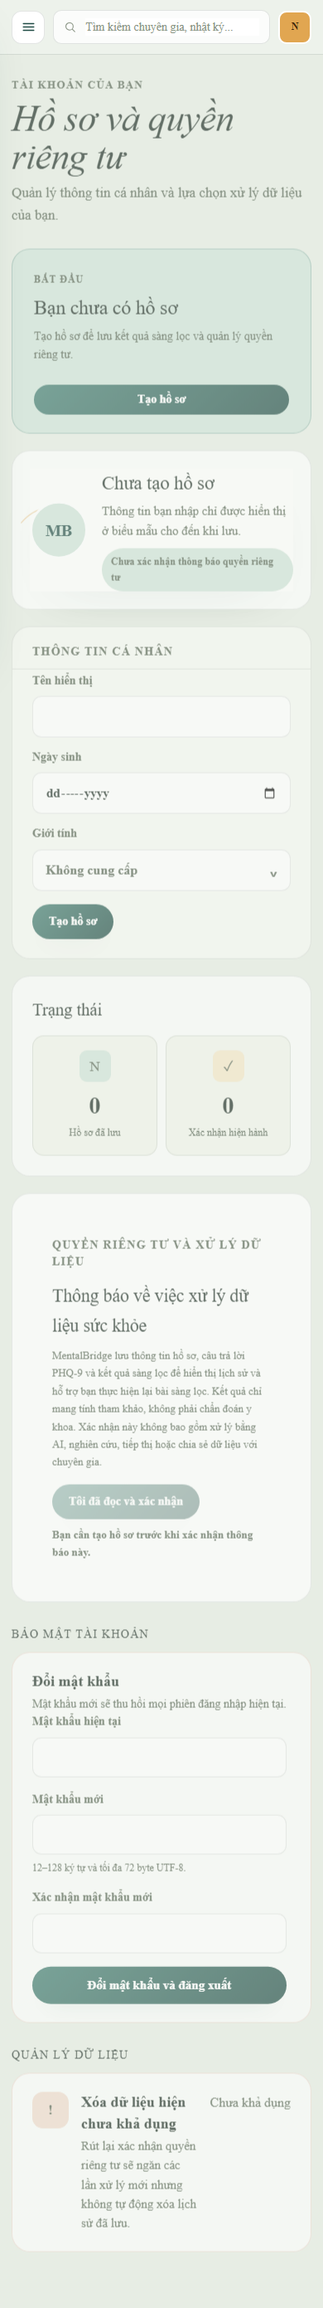
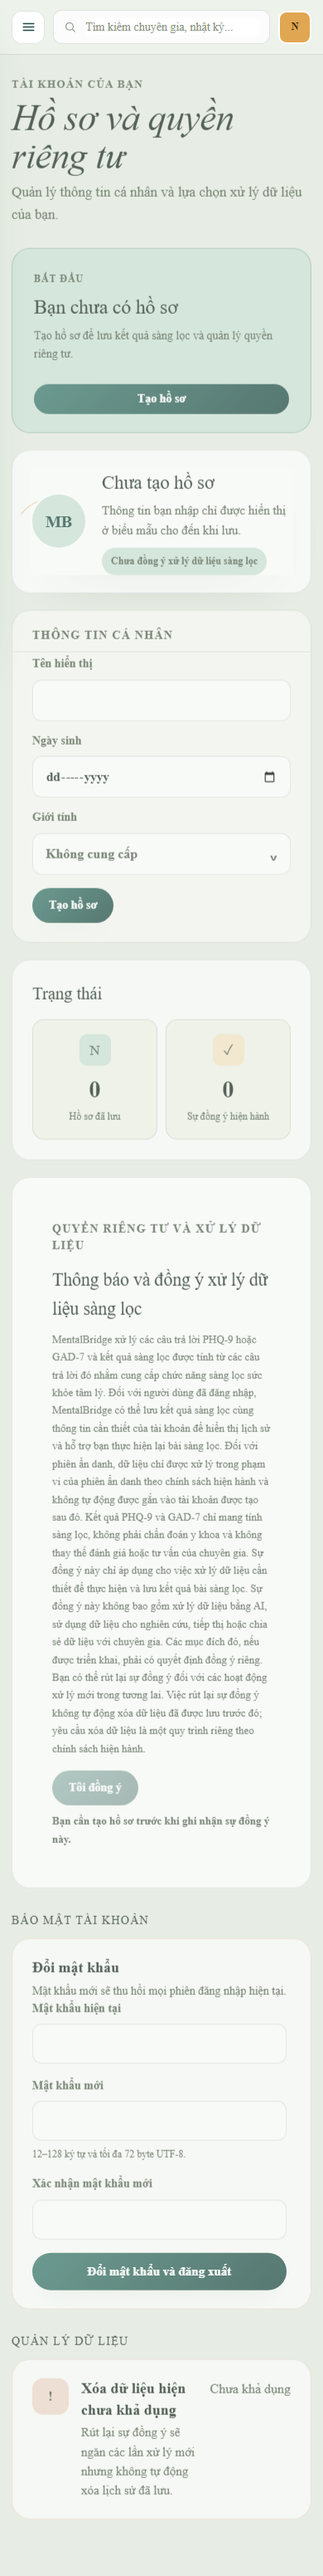
fix(assessment): clarify guided completion and form focus
Label the PHQ-9 completion action as the transition to GAD-7 while preserving the final-result action. Keep focused form controls and placeholders readable in the light theme, with unit, fixture E2E, and screenshot evidence.

diff --git a/mentalbridge/tests/e2e/care-assessment.spec.ts b/mentalbridge/tests/e2e/care-assessment.spec.ts
@@ -75,6 +75,8 @@ async function answerGuidedInstrument(
   page: Page,
   questionCount: number,
   answerName: string,
+  completionLabel: string,
+  completionEvidencePath?: string,
 ) {
   for (let item = 1; item <= questionCount; item += 1) {
     await page.getByRole('radio', { name: answerName }).check()
@@ -83,7 +85,10 @@ async function answerGuidedInstrument(
     }
   }
   await page.getByRole('checkbox', { name: /tôi đồng ý/i }).check()
-  await page.getByRole('button', { name: 'Xem kết quả' }).click()
+  if (completionEvidencePath) {
+    await page.screenshot({ path: completionEvidencePath, fullPage: true })
+  }
+  await page.getByRole('button', { name: completionLabel }).click()
 }
 
 async function careControl(
@@ -195,6 +200,22 @@ test.describe('Care-backed PHQ-9 screening', () => {
         nameInput.evaluate((element) => getComputedStyle(element).outlineWidth),
       )
       .toBe('3px')
+    await expect
+      .poll(() =>
+        nameInput.evaluate(
+          (element) => getComputedStyle(element).backgroundColor,
+        ),
+      )
+      .toBe('rgb(255, 255, 255)')
+    const searchInput = page.getByPlaceholder('Tìm kiếm chuyên gia, nhật ký...')
+    await searchInput.focus()
+    await expect
+      .poll(() =>
+        searchInput.evaluate(
+          (element) => getComputedStyle(element, '::placeholder').color,
+        ),
+      )
+      .toBe('rgb(138, 149, 133)')
     await page.screenshot({
       path: 'docs/evidence/story-1101-profile-desktop.png',
       fullPage: true,
@@ -477,7 +498,13 @@ test.describe('Care-backed PHQ-9 screening', () => {
       path: 'docs/evidence/mb-272-initial-check-questionnaire-desktop.png',
       fullPage: true,
     })
-    await answerGuidedInstrument(page, 9, 'Vài ngày')
+    await answerGuidedInstrument(
+      page,
+      9,
+      'Vài ngày',
+      'Lưu PHQ-9 và bắt đầu GAD-7',
+      'docs/evidence/mb-272-phq9-to-gad7-cta.png',
+    )
     await expect(
       page.getByRole('heading', {
         name: 'GAD-7 — Sàng lọc triệu chứng lo âu',
@@ -511,7 +538,12 @@ test.describe('Care-backed PHQ-9 screening', () => {
         }),
       })
     })
-    await answerGuidedInstrument(page, 7, 'Không bao giờ (0 ngày nào)')
+    await answerGuidedInstrument(
+      page,
+      7,
+      'Không bao giờ (0 ngày nào)',
+      'Xem kết quả',
+    )
 
     const resultHeading = page.getByRole('heading', {
       name: 'Kết quả kiểm tra ban đầu',

diff --git a/mentalbridge/features/assessment/components/AssessmentFlow.test.tsx b/mentalbridge/features/assessment/components/AssessmentFlow.test.tsx
@@ -62,6 +62,42 @@ function problem(status: number, code: string) {
 }
 
 describe('AssessmentFlow', () => {
+  it('can describe the next guided step in its completion action', async () => {
+    mockServer.use(
+      http.get('http://localhost/api/care/questionnaires/phq9', () =>
+        HttpResponse.json(questionnaire),
+      ),
+      http.get('http://localhost/api/care/privacy-disclosure', () =>
+        HttpResponse.json(disclosure),
+      ),
+      http.get('http://localhost/api/care/consents', () =>
+        HttpResponse.json({ decisions: [] }),
+      ),
+    )
+
+    render(
+      <AssessmentFlow
+        mode="authenticated"
+        instrument="PHQ9"
+        workflow="initial-check"
+        completionLabel="Lưu PHQ-9 và bắt đầu GAD-7"
+        completionPendingLabel="Đang lưu PHQ-9…"
+      />,
+    )
+
+    await screen.findByRole('heading', {
+      name: 'PHQ-9 — Sàng lọc triệu chứng',
+    })
+    expect(
+      screen.getByRole('button', {
+        name: 'Lưu PHQ-9 và bắt đầu GAD-7',
+      }),
+    ).toBeVisible()
+    expect(
+      screen.queryByRole('button', { name: 'Xem kết quả' }),
+    ).not.toBeInTheDocument()
+  })
+
   it('submits only versioned answers and renders the server-owned result', async () => {
     const received = vi.fn()
     mockServer.use(

diff --git a/mentalbridge/tests/e2e/initial-check-release.spec.ts b/mentalbridge/tests/e2e/initial-check-release.spec.ts
@@ -145,6 +145,7 @@ async function completeQuestions(
   page: Page,
   answers: string[],
   beforeSubmit?: () => Promise<void>,
+  completionLabel = 'Xem kết quả',
 ) {
   for (let index = 0; index < answers.length; index += 1) {
     await page.getByRole('radio', { name: answers[index], exact: true }).check()
@@ -154,7 +155,7 @@ async function completeQuestions(
   }
   await page.getByRole('checkbox', { name: /tôi đồng ý/i }).check()
   if (beforeSubmit) await beforeSubmit()
-  await page.getByRole('button', { name: 'Xem kết quả' }).click()
+  await page.getByRole('button', { name: completionLabel }).click()
 }
 
 async function injectLocalCareFault(request: APIRequestContext) {
@@ -378,6 +379,7 @@ test.describe('MB-273 initial-check release readiness', () => {
       page,
       [...Array.from({ length: 8 }, () => 'Không có gì'), 'Vài ngày'],
       isLocalMode ? () => injectLocalCareFault(request) : undefined,
+      'Lưu PHQ-9 và bắt đầu GAD-7',
     )
     const originalRequest = await phq9SubmissionRequest
     const originalHeaders = await originalRequest.allHeaders()

diff --git a/mentalbridge/features/assessment/components/AssessmentFlow.tsx b/mentalbridge/features/assessment/components/AssessmentFlow.tsx
@@ -194,6 +194,8 @@ export default function AssessmentFlow({
   workflow = 'standalone',
   onCompleted,
   returnHref,
+  completionLabel = 'Xem kết quả',
+  completionPendingLabel = 'Đang gửi…',
 }: {
   mode: AssessmentMode
   instrument: Instrument
@@ -201,6 +203,8 @@ export default function AssessmentFlow({
   workflow?: 'standalone' | 'initial-check'
   onCompleted?: () => void
   returnHref?: string
+  completionLabel?: string
+  completionPendingLabel?: string
 }) {
   const [questionnaire, setQuestionnaire] = useState<Questionnaire | null>(null)
   const [assessment, setAssessment] = useState<AssessmentView | null>(null)
@@ -508,7 +512,7 @@ export default function AssessmentFlow({
             }
             onClick={() => void submit()}
           >
-            {submitting ? 'Đang gửi…' : 'Xem kết quả'}
+            {submitting ? completionPendingLabel : completionLabel}
           </button>
         ) : (
           <button

diff --git a/mentalbridge/app/theme-sync.css b/mentalbridge/app/theme-sync.css
@@ -1318,6 +1318,21 @@ html{color-scheme:light}
 }
 
 :is(.auth-layout,.anonymous-assessment,.policy-page,.assessment-intro,.ref-shell,.role-shell)
+  :is(input,select,textarea):is(:focus,:focus-visible){
+  background-color:var(--surface)!important;
+  color:var(--ink)!important;
+  border-color:var(--teal)!important;
+  box-shadow:0 0 0 3px rgba(207,227,216,.82)!important;
+  color-scheme:light!important;
+}
+
+:is(.auth-layout,.anonymous-assessment,.policy-page,.assessment-intro,.ref-shell,.role-shell)
+  :is(input,textarea):is(:focus,:focus-visible)::placeholder{
+  color:var(--ink-faint)!important;
+  opacity:1;
+}
+
+:is(.auth-layout,.anonymous-assessment,.policy-page,.assessment-intro,.ref-shell,.role-shell)
   select option{
   background-color:var(--surface)!important;
   color:var(--ink)!important;

diff --git a/mentalbridge/features/initial-check/components/GuidedInitialCheck.tsx b/mentalbridge/features/initial-check/components/GuidedInitialCheck.tsx
@@ -600,6 +600,8 @@ export default function GuidedInitialCheck() {
           instrument="PHQ9"
           workflow="initial-check"
           returnHref="/dashboard"
+          completionLabel="Lưu PHQ-9 và bắt đầu GAD-7"
+          completionPendingLabel="Đang lưu PHQ-9…"
           onCompleted={() => void load()}
         />
       )}
